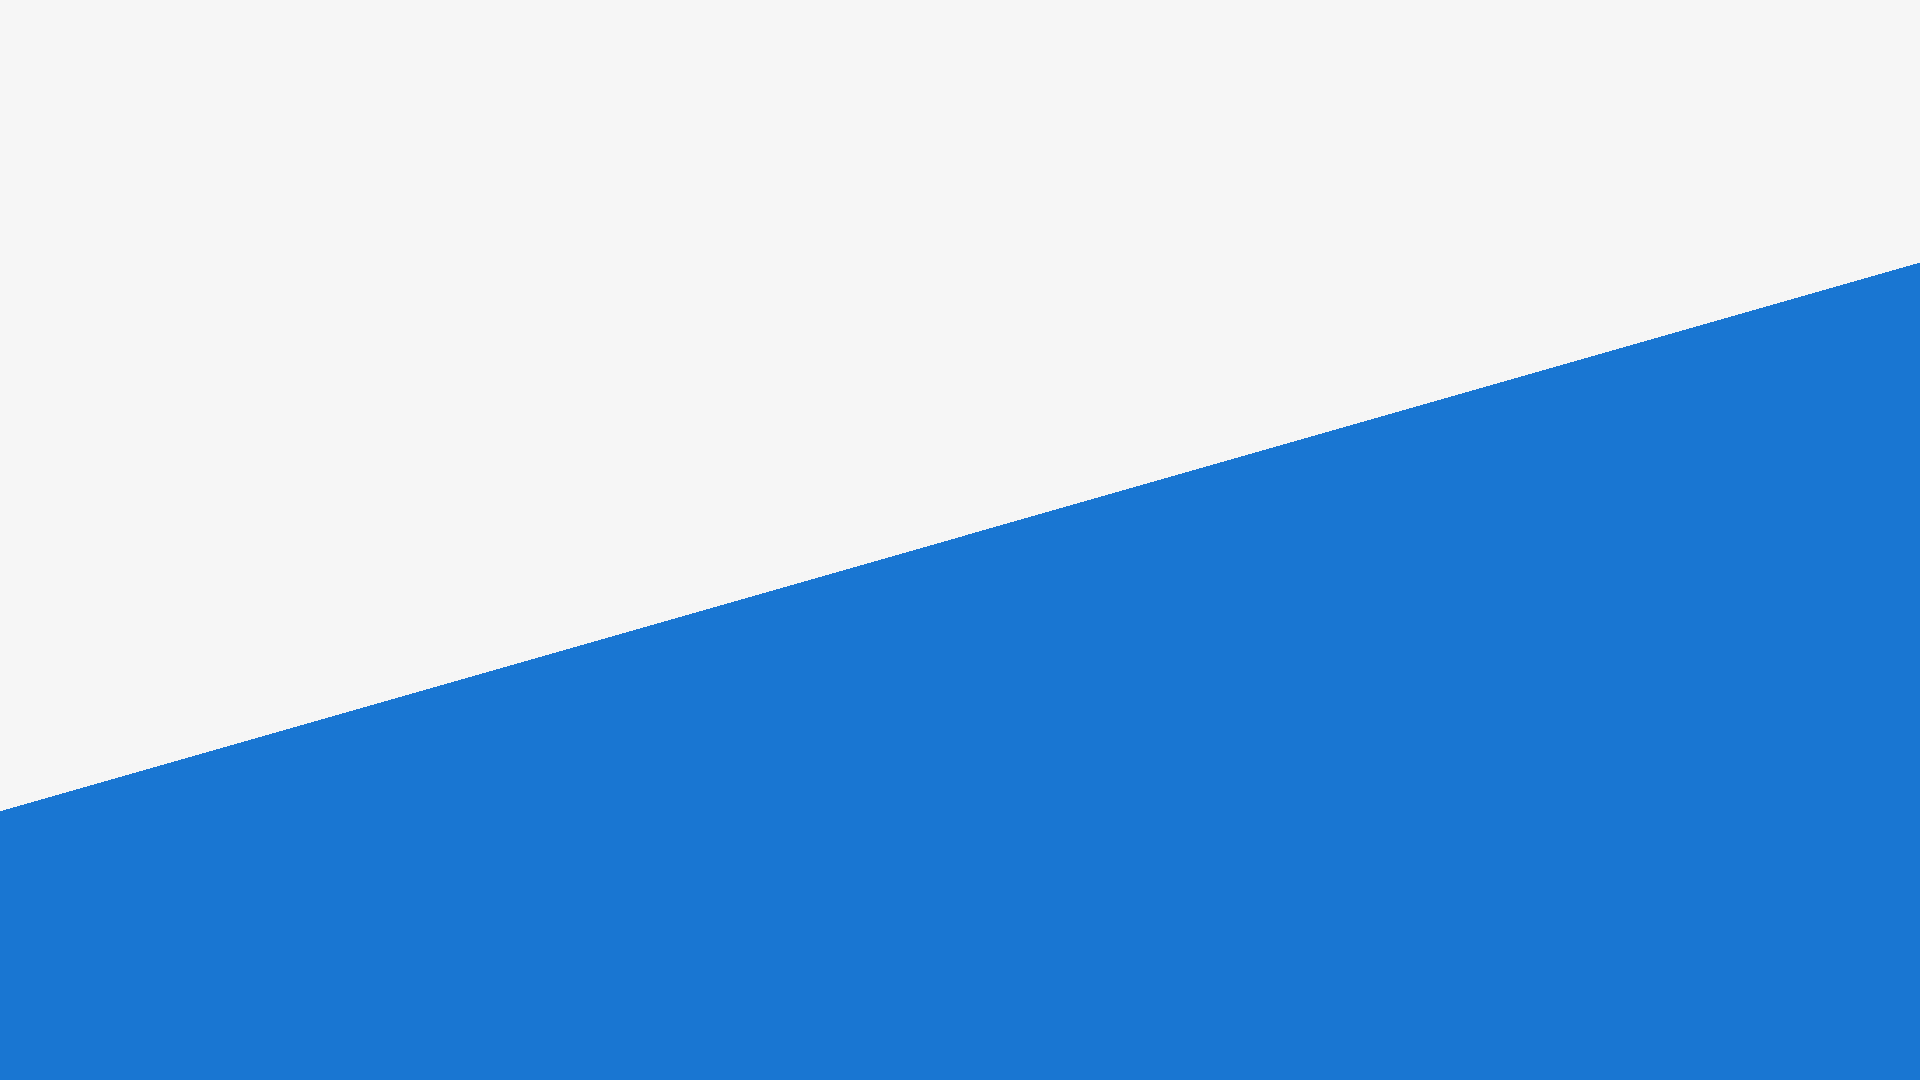
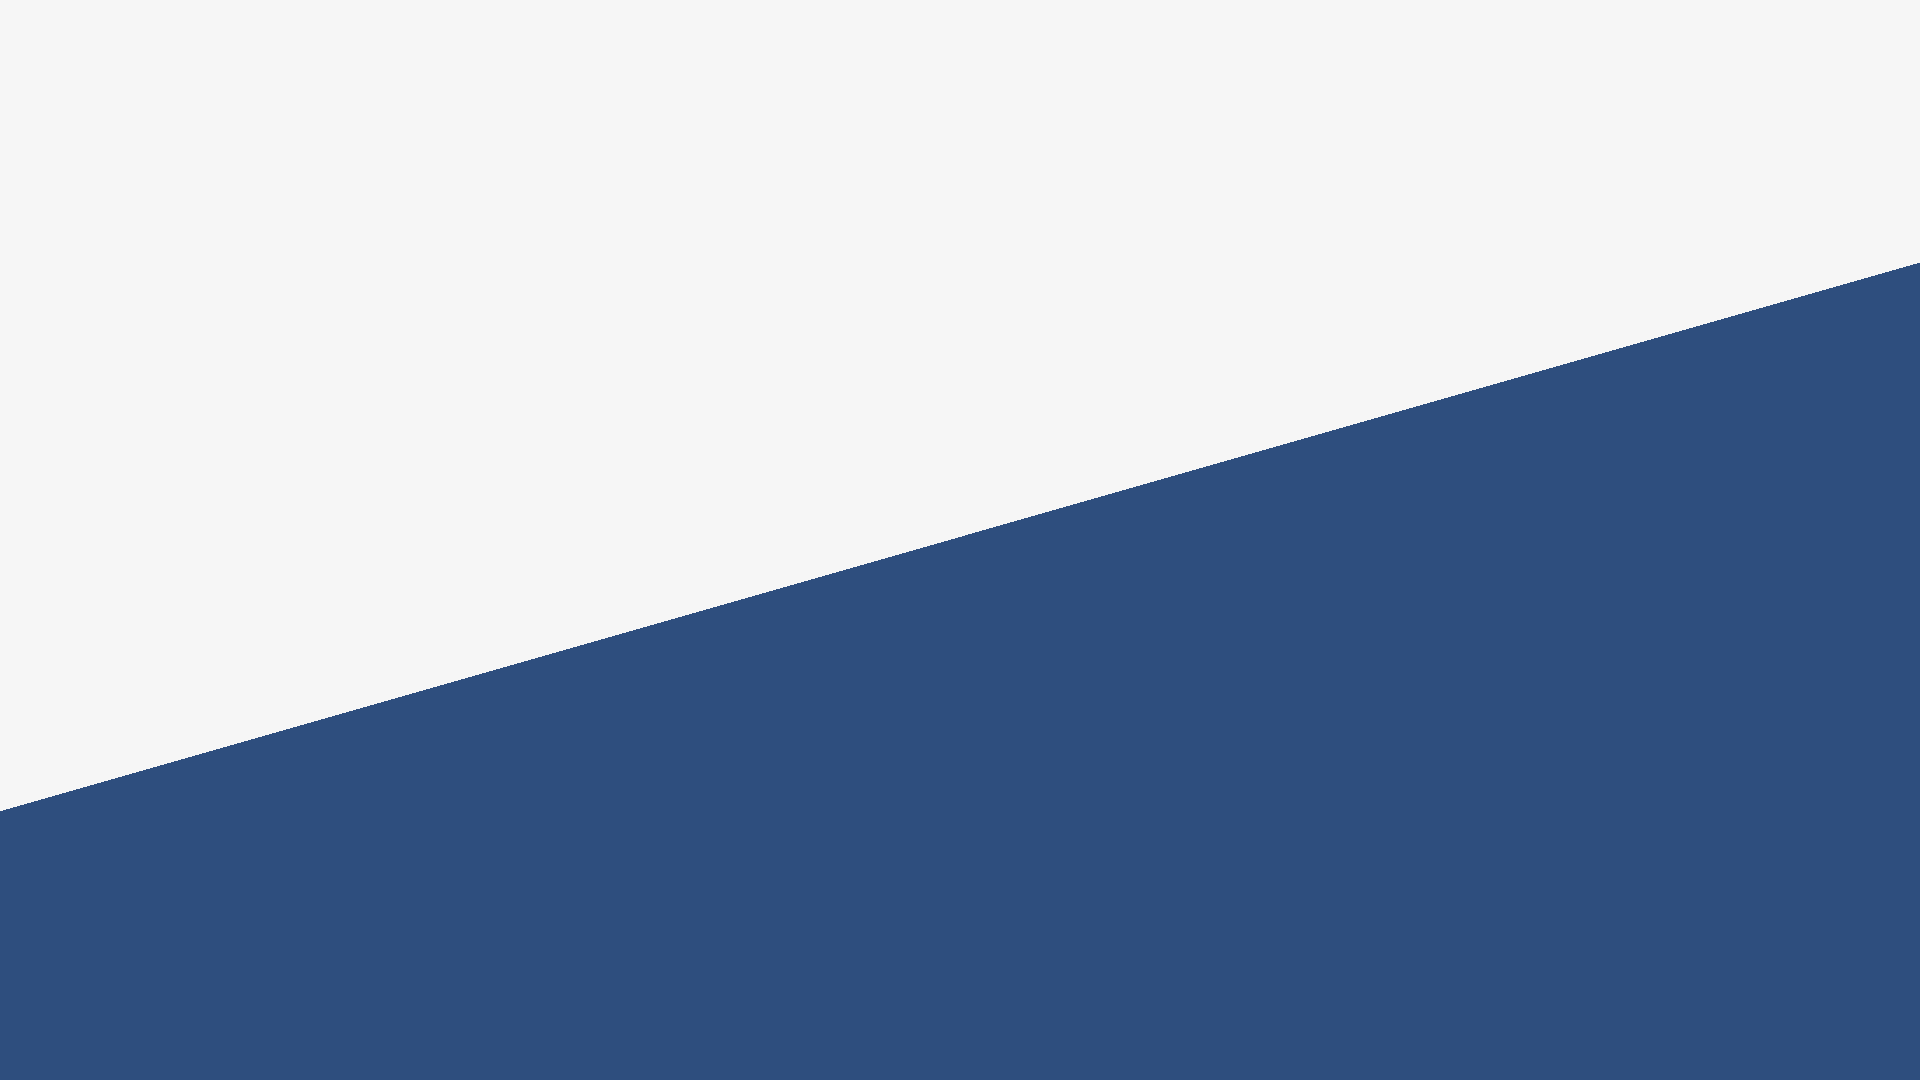
更改主题配色，管理员详情页改为弹出模式

diff --git a/evidence_detail.html b/evidence_detail.html
@@ -42,7 +42,7 @@
                     <div class="main middle-header" v-bind:style="{'background-color':styleobject.front}">
                         <!--标签-->
                         <span v-for="topic in topics" style="margin-left:5px;"
-                        v-bind:class="{badge:true,'badge-pill':true,'badge-primary':!darkmode,'badge-success':darkmode}">{{topic}}</span>
+                        v-bind:class="{badge:true,'badge-pill':true,'badge-lightself':!darkmode,'badge-success':darkmode}">{{topic}}</span>
 
                         <hr v-bind:style="{border:'1px solid '+styleobject.content,margin:'3px'}">
                         <h3>{{header}} </h3>
@@ -128,7 +128,7 @@
                     <div class="main right-bar" v-bind:style="{'background-color':styleobject.front,'text-align':'center'}">
                         <strong>作者详情</strong><br>
                         {{userinfo.username}}<br>
-                        <a v-bind:href="'userinfo.html?id='+userinfo.id" style="font-size: 12px;">前往Ta的个人主页></a><br>
+                        <a v-bind:href="'userinfo.html?id='+userinfo.id" style="font-size: 12px; color: #2E4E7E">前往Ta的个人主页></a><br>
                         <img v-bind:src="userinfo.avatar?userinfo.avatar:'static/img/avater.jpg'" class="avatar"><br>
                         <span v-if="userinfo.confirmed" class="badge badge-primary">已注册</span>
                         <span v-if="userinfo.valid&&userinfo.administrator"class="badge badge-warning">管理员</span>
@@ -161,7 +161,7 @@
                 lightcolor:{
                     front:"white",
                     background:"#f6f6f6",
-                    content:"rgb(0,128,255)",
+                    content:"#2e4e7e",
                     alert:"alert alert-primary",
                     alerterror:'alert alert-danger',
                     bgpic:"url('static/img/bg.png')"
@@ -645,5 +645,17 @@
             width:100px;
             opacity: 1;
         }
+		.btn-primary {
+			background-color: #2e4e7e;
+			border-color: #2e4e7e;
+		}
+		.btn-outline-primary {
+			color: #2e4e7e;
+			border-color: #2e4e7e;
+		}
+		.badge-lightself {
+			background-color: #2e4e7e;
+			color: #ffffff
+		}
     </style>
 </html>

diff --git a/hypothesis_detail.html b/hypothesis_detail.html
@@ -41,7 +41,7 @@
                     <div class="main middle-header" v-bind:style="{'background-color':styleobject.front}">
                         <!--标签-->
                         <span v-for="topic in topics" style="margin-left:5px;"
-                        v-bind:class="{badge:true,'badge-pill':true,'badge-primary':!darkmode,'badge-success':darkmode}">{{topic}}</span>
+                        v-bind:class="{badge:true,'badge-pill':true,'badge-lightself':!darkmode,'badge-success':darkmode}">{{topic}}</span>
                         <hr v-bind:style="{border:'1px solid '+styleobject.content,margin:'3px'}">
                         <!--标题-->
                         <h3>{{header}} 
@@ -198,7 +198,7 @@
                         <span v-if="userinfo.valid&&userinfo.forbidden" class="badge badge-danger">封禁中</span>
                         <span v-if="userinfo.valid&&userinfo.role_name" class="badge badge-success">{{userinfo.role_name}}</span>
                         <br>
-                        <a v-bind:href="'userinfo.html?id='+userinfo.id" style="font-size: 12px;">前往Ta的个人主页></a><br>
+                        <a v-bind:href="'userinfo.html?id='+userinfo.id" style="font-size: 12px; color: #2E4E7E">前往Ta的个人主页></a><br>
                         <img v-bind:src="userinfo.avatar?userinfo.avatar:'static/img/avater.jpg'" class="avatar"><br>
                         
                         <table style="width:100%" v-if="userinfo.valid">
@@ -227,7 +227,7 @@
                 lightcolor:{
                     front:"white",
                     background:"#f6f6f6",
-                    content:"rgb(0,128,255)",
+                    content:"#2e4e7e",
                     alert:"alert alert-primary",
                     alerterror:'alert alert-danger',
                     bgpic:"url('static/img/bg.png')"
@@ -817,5 +817,17 @@
             padding:2%;
             margin: 0 auto;
         }
+		.btn-primary {
+			background-color: #2e4e7e;
+			border-color: #2e4e7e;
+		}
+		.btn-outline-primary {
+			color: #2e4e7e;
+			border-color: #2e4e7e;
+		}
+		.badge-lightself {
+			background-color: #2e4e7e;
+			color: #ffffff
+		}
     </style>
 </html>

diff --git a/index.html b/index.html
@@ -208,12 +208,12 @@
                 lightcolor:{
                     front:"white",
                     background:"#f6f6f6",
-                    content:"rgb(0,128,255)",
+                    content:"#2e4e7e",
                     alert:"alert alert-primary",
                     alerterror:'alert alert-danger',
                     bgpic:"url('static/img/bg.png')",
                     itembodyclass:['item-body'],
-                    itemheaderclass:['item-header','bg-primary','text-white'],
+                    itemheaderclass:['item-header','bg-lightself','text-white'],
                 },
                 darkcolor:{
                     //front:"#282561",
@@ -682,5 +682,16 @@
             font-size: 15px;
             vertical-align: middle;
         }
+		.btn-primary {
+			background-color: #2e4e7e;
+			border-color: #2e4e7e;
+		}
+		.btn-outline-primary {
+			color: #2e4e7e;
+			border-color: #2e4e7e;
+		}
+		.bg-primary {
+			background-color: #2e4e7e !important;
+		}
     </style>
 </html>

diff --git a/evidence_create.html b/evidence_create.html
@@ -9,7 +9,7 @@
         <script src="https://cdn.staticfile.org/twitter-bootstrap/4.3.1/js/bootstrap.min.js"></script>
         <script src="https://cdn.jsdelivr.net/npm/vue/dist/vue.js"></script>
         <script src="https://cdn.staticfile.org/axios/0.18.0/axios.min.js"></script>
-        <title></title>
+        <title>微证据创建</title>
     </head>
     <body>
         <div id='app'>
@@ -75,7 +75,7 @@
                 lightcolor:{
                     front:"white",
                     background:"#f6f6f6",
-                    content:"rgb(0,128,255)",
+                    content:"#2e4e7e",
                     alert:"alert alert-primary",
                     alerterror:'alert alert-danger',
                     bgpic:"url('static/img/bg.png')"
@@ -291,5 +291,9 @@
         .tags{
             display: block;
         }
+		.btn-primary {
+			background-color: #2e4e7e;
+			border-color: #2e4e7e;
+		}
     </style>
 </html>

diff --git a/admin_hypothesis.html b/admin_hypothesis.html
@@ -66,7 +66,7 @@
                 lightcolor:{
                     front:"white",
                     background:"#f6f6f6",
-                    content:"rgb(0,128,255)",
+                    content:"#2e4e7e",
                     alert:"alert alert-primary",
                     alerterror:'alert alert-danger',
                     bgpic:"url('static/img/bg.png')"
@@ -154,7 +154,7 @@
 					},
 					//详情按钮
 					getDetail:function(id){
-						window.location.href="hypothesis_detail.html?id="+id;
+						window.open("hypothesis_detail.html?id="+id, "_blank");
 					},
 					//删除按钮
 					deleteHypothesis:function(id){
@@ -215,5 +215,9 @@
             padding-left:15px;
             padding-right:15px;
         }
+		.btn-primary {
+			background-color: #2e4e7e;
+			border-color: #2e4e7e;
+		}
     </style>
 </html>

diff --git a/admin_evidence.html b/admin_evidence.html
@@ -66,7 +66,7 @@
                 lightcolor:{
                     front:"white",
                     background:"#f6f6f6",
-                    content:"rgb(0,128,255)",
+                    content:"#2e4e7e",
                     alert:"alert alert-primary",
                     alerterror:'alert alert-danger',
                     bgpic:"url('static/img/bg.png')"
@@ -153,7 +153,7 @@
 				},
 				//详情按钮
 				getDetail:function(id){
-					window.location.href="evidence_detail.html?id="+id;
+					window.open("evidence_detail.html?id="+id, "_blank");
 				},
 				//删除按钮
 				deleteEvi:function(id){
@@ -214,5 +214,9 @@
             padding-left:15px;
             padding-right:15px;
         }
+		.btn-primary {
+			background-color: #2e4e7e;
+			border-color: #2e4e7e;
+		}
     </style>
 </html>

diff --git a/userinfo.html b/userinfo.html
@@ -202,7 +202,7 @@
                 lightcolor:{
                     front:"white",
                     background:"#f6f6f6",
-                    content:"rgb(0,128,255)",
+                    content:"#2e4e7e",
                     alert:"alert alert-primary",
                     alerterror:'alert alert-danger',
                     bgpic:"url('static/img/bg.png')",
@@ -735,6 +735,16 @@
             overflow: hidden;
             font-size: 15px;
         }
-        
+        .btn-primary {
+        	background-color: #2e4e7e;
+        	border-color: #2e4e7e;
+        }
+        .btn-outline-primary {
+        	color: #2e4e7e;
+        	border-color: #2e4e7e;
+        }
+        .bg-primary {
+        	background-color: #2e4e7e !important;
+        }
     </style>
 </html>

diff --git a/login.html b/login.html
@@ -54,7 +54,7 @@
                 lightcolor:{
                     front:"white",
                     background:"#f6f6f6",
-                    content:"rgb(0,128,255)",
+                    content:"#2e4e7e",
                     alert:"alert alert-primary",
                     alerterror:'alert alert-danger',
                     bgpic:"url('static/img/bg.png')"
@@ -208,6 +208,13 @@
     <link rel="stylesheet" type="text/css" href="static/css/header.css">
     <link rel="stylesheet" type="text/css" href="static/css/main.css">
     <style>
-        
+        .btn-primary {
+        	background-color: #2e4e7e;
+        	border-color: #2e4e7e;
+        }
+		.btn-outline-primary {
+			color: #2e4e7e;
+			border-color: #2e4e7e;
+		}
     </style>
 </html>

diff --git a/register.html b/register.html
@@ -64,7 +64,7 @@
                 lightcolor:{
                     front:"white",
                     background:"#f6f6f6",
-                    content:"rgb(0,128,255)",
+                    content:"#2e4e7e",
                     alert:"alert alert-primary",
                     bgpic:"url('static/img/bg.png')"
                 },
@@ -173,6 +173,13 @@
     <link rel="stylesheet" type="text/css" href="static/css/header.css">
     <link rel="stylesheet" type="text/css" href="static/css/main.css">
     <style>
-        
+		.btn-primary {
+			background-color: #2e4e7e;
+			border-color: #2e4e7e;
+		}
+        .btn-outline-primary {
+        	color: #2e4e7e;
+        	border-color: #2e4e7e;
+        }
     </style>
 </html>

diff --git a/usercenter.html b/usercenter.html
@@ -242,7 +242,7 @@
                 lightcolor:{
                     front:"white",
                     background:"#f6f6f6",
-                    content:"rgb(0,128,255)",
+                    content:"#2e4e7e",
                     alert:"alert alert-primary",
                     alerterror:'alert alert-danger',
                     bgpic:"url('static/img/bg.png')",
@@ -885,5 +885,16 @@
             padding:2%;
             margin-bottom: 15px;
         }
+		.btn-primary {
+			background-color: #2e4e7e;
+			border-color: #2e4e7e;
+		}
+		.btn-outline-primary {
+			color: #2e4e7e;
+			border-color: #2e4e7e;
+		}
+		.bg-primary {
+			background-color: #2e4e7e !important;
+		}
     </style>
 </html>

diff --git a/_reconfirm.html b/_reconfirm.html
@@ -40,7 +40,7 @@
                 lightcolor:{
                     front:"white",
                     background:"#f6f6f6",
-                    content:"rgb(0,128,255)",
+                    content:"#2e4e7e",
                     alert:"alert alert-primary",
                     alerterror:'alert alert-danger',
                     bgpic:"url('static/img/bg.png')"
@@ -114,6 +114,9 @@
     <link rel="stylesheet" type="text/css" href="static/css/header.css">
     <link rel="stylesheet" type="text/css" href="static/css/main.css">
     <style>
-        
+        .btn-primary {
+        	background-color: #2e4e7e;
+        	border-color: #2e4e7e;
+        }
     </style>
 </html>

diff --git a/admin_comment.html b/admin_comment.html
@@ -80,7 +80,7 @@
                 lightcolor:{
                     front:"white",
                     background:"#f6f6f6",
-                    content:"rgb(0,128,255)",
+                    content:"#2e4e7e",
                     alert:"alert alert-primary",
                     alerterror:'alert alert-danger',
                     bgpic:"url('static/img/bg.png')"
@@ -225,6 +225,9 @@
     <link rel="stylesheet" type="text/css" href="static/css/header.css">
     <link rel="stylesheet" type="text/css" href="static/css/main.css">
     <style>
-        
+        .btn-primary {
+        	background-color: #2e4e7e;
+        	border-color: #2e4e7e;
+        }
     </style>
 </html>
